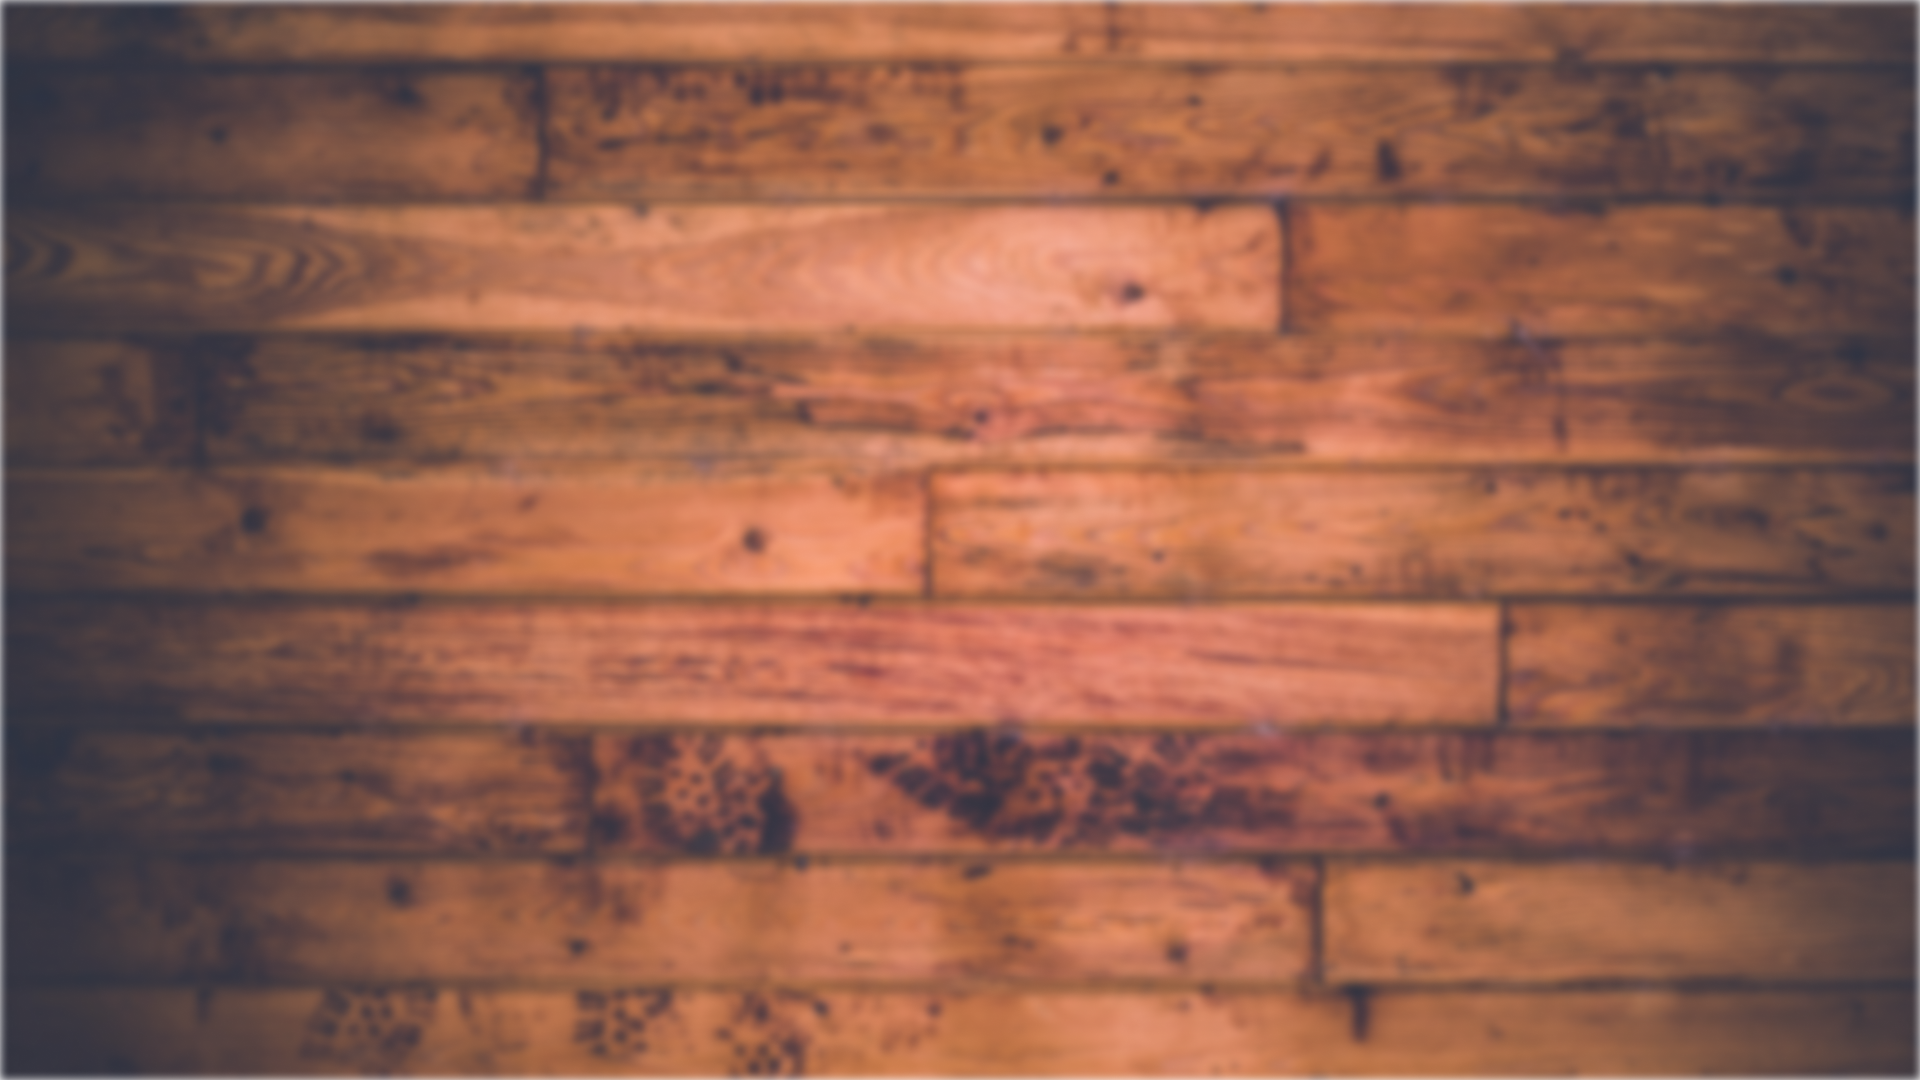
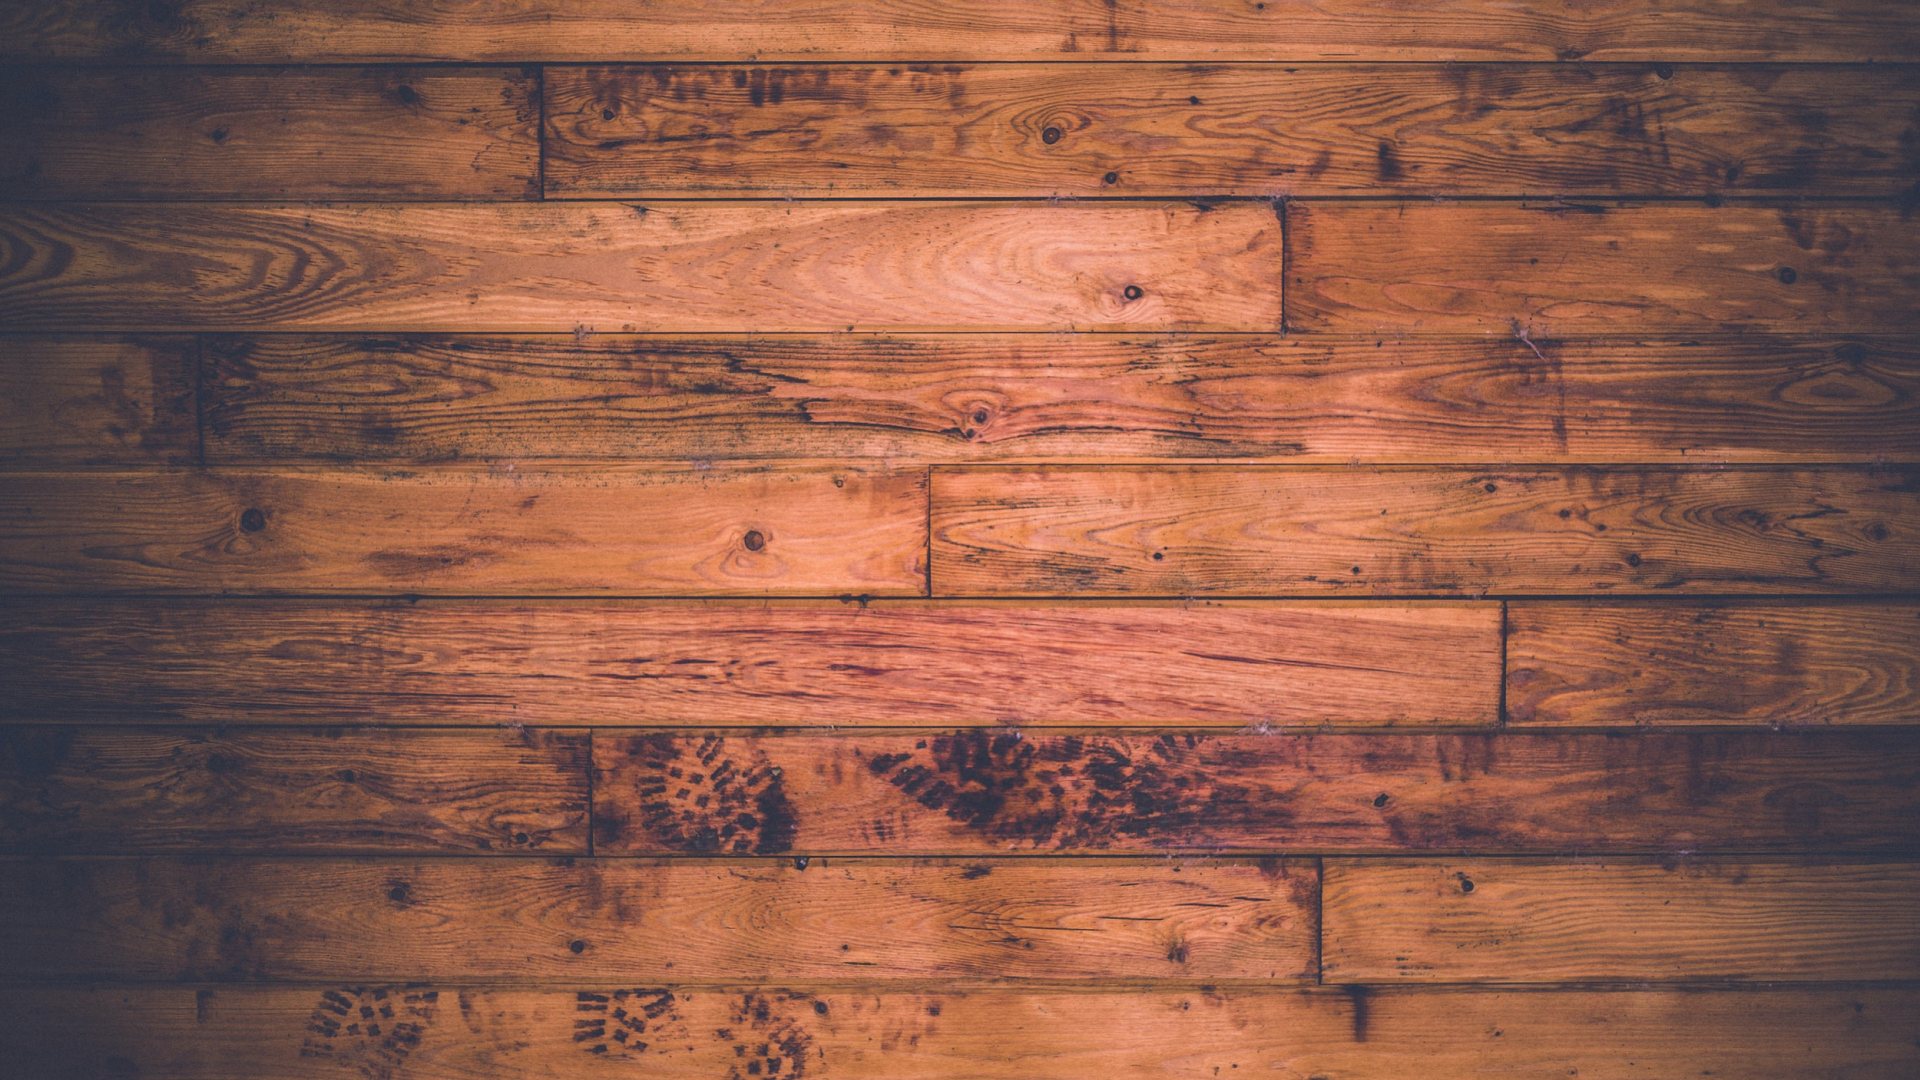
se cambio la primera imagen de fondo y se le removio el efecto blur, ademas se añadio el gradient a la barra de navegacion

diff --git a/js/script.js b/js/script.js
@@ -37,9 +37,22 @@ section_2_Article_2.style.position = "absolute";
 section_2_Article_2.style.top = "169px";
 section_2_Article_2.style.left = "1048px";
 
+
 //informacion de contacto
 var numerotelefono = document.createTextNode("Teléfono de contacto: ");
 var section_3_Article_1 = section_3.appendChild(numerotelefono);
+
+
+//Se realizo un cambio de diseño en la pagina
+
+//Cambios al Header y a la primera seccion de la pagina
+header.style.height = "137px";
+nav_Bar.style.height = "137px";
+header.style.backgroundColor = "";
+nav_Bar.style.background = "linear-gradient(#080808, transparent)";
+
+
+
 
 
 
